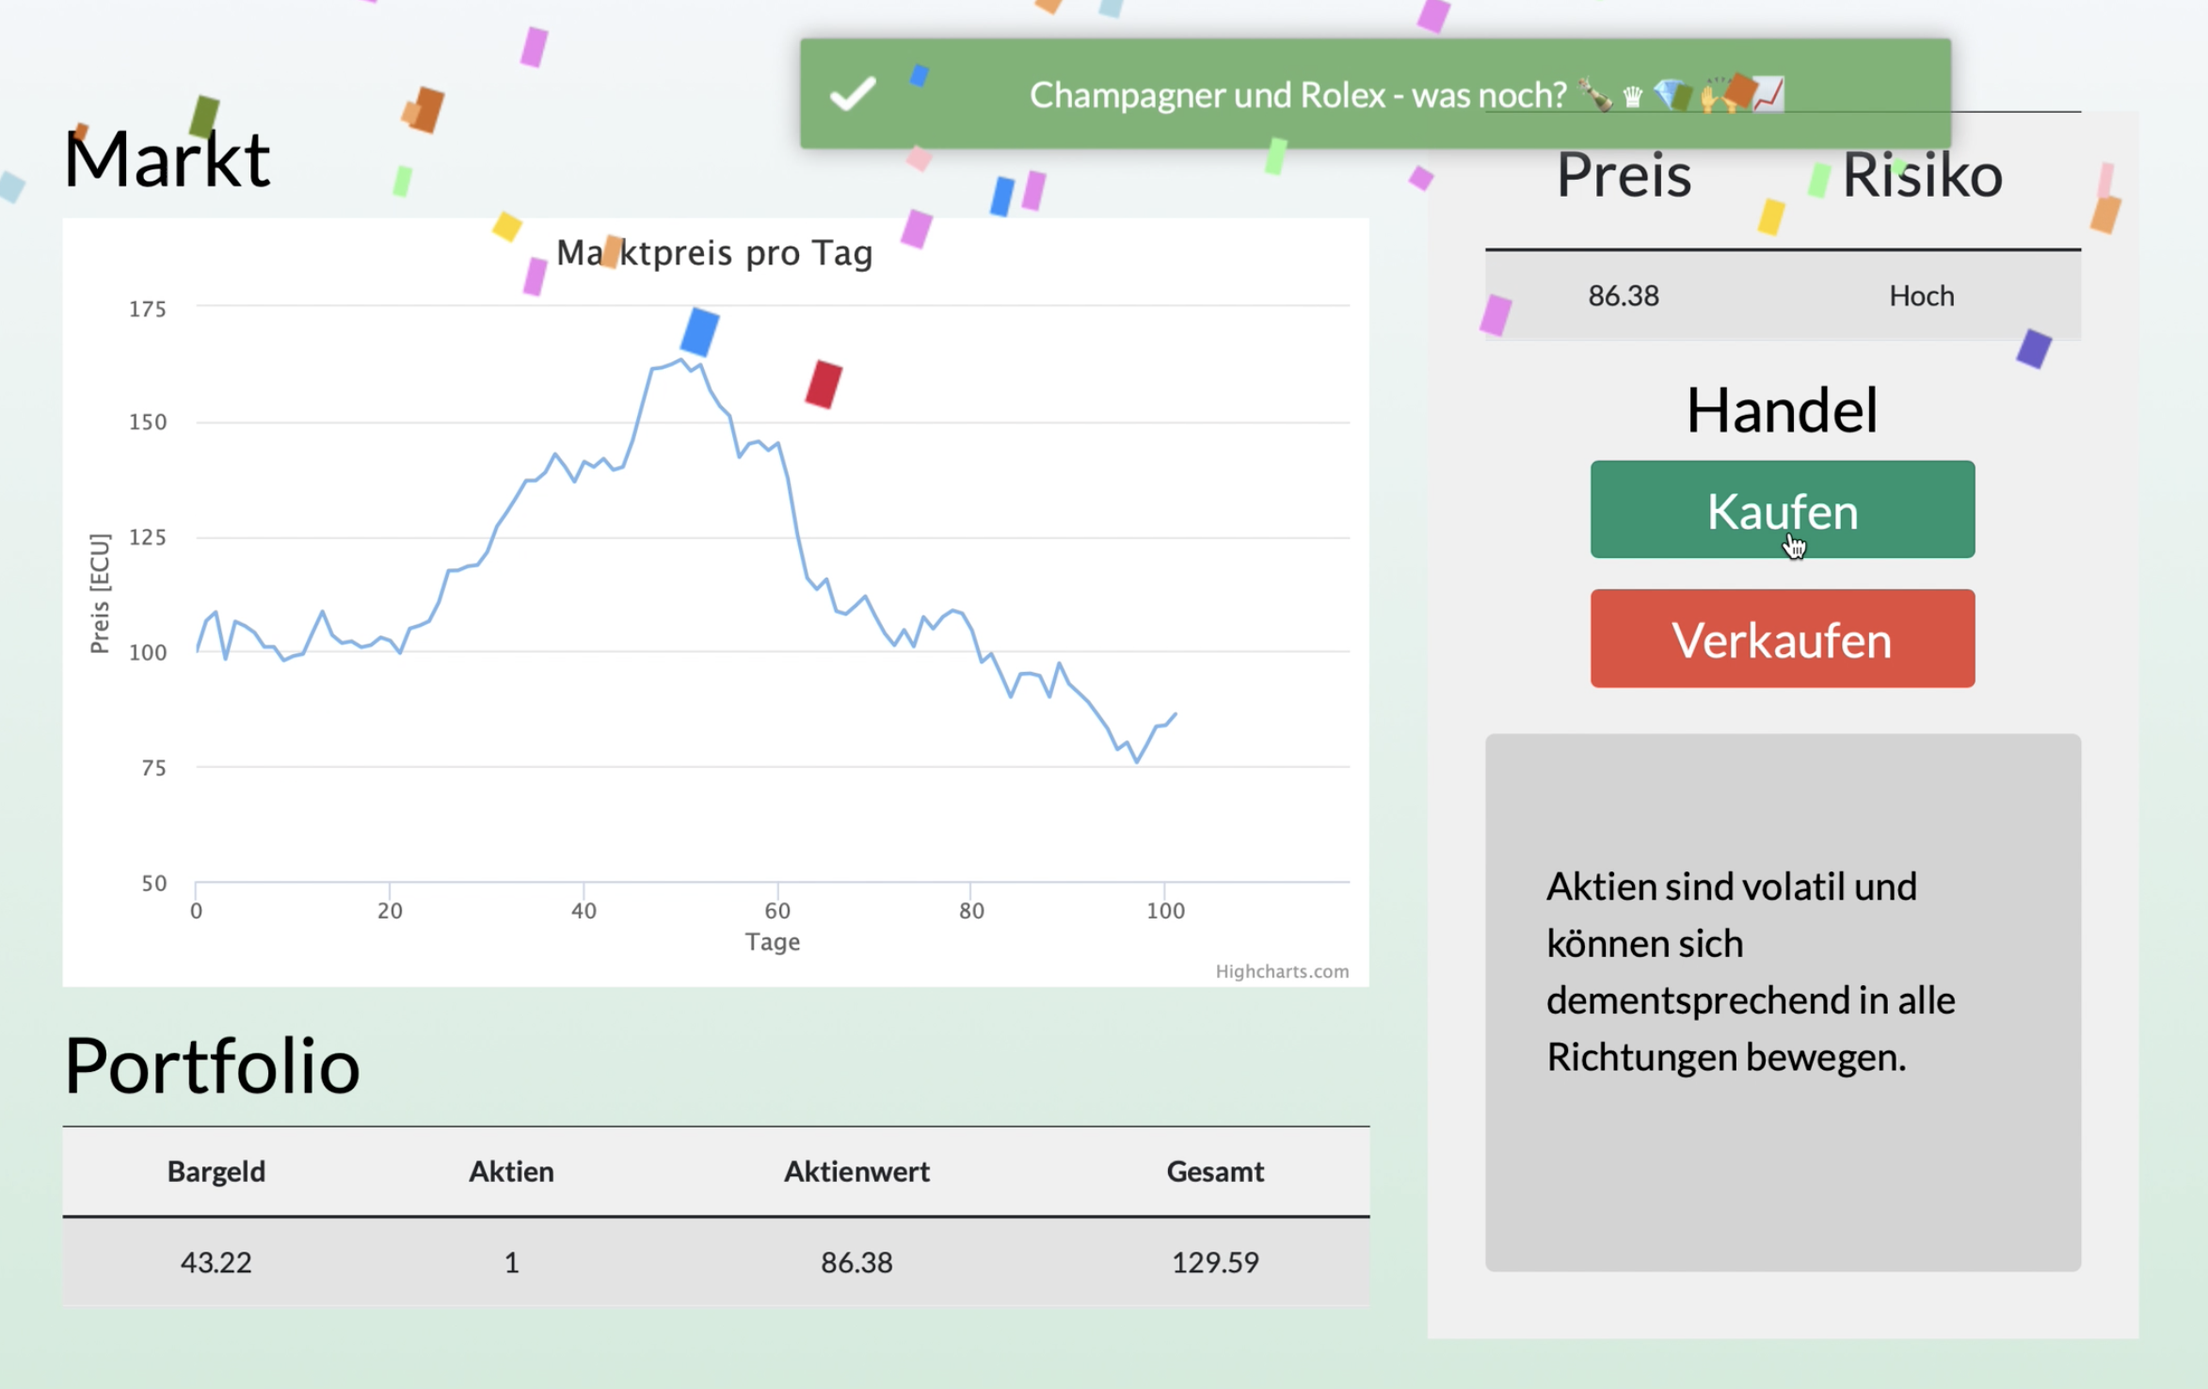
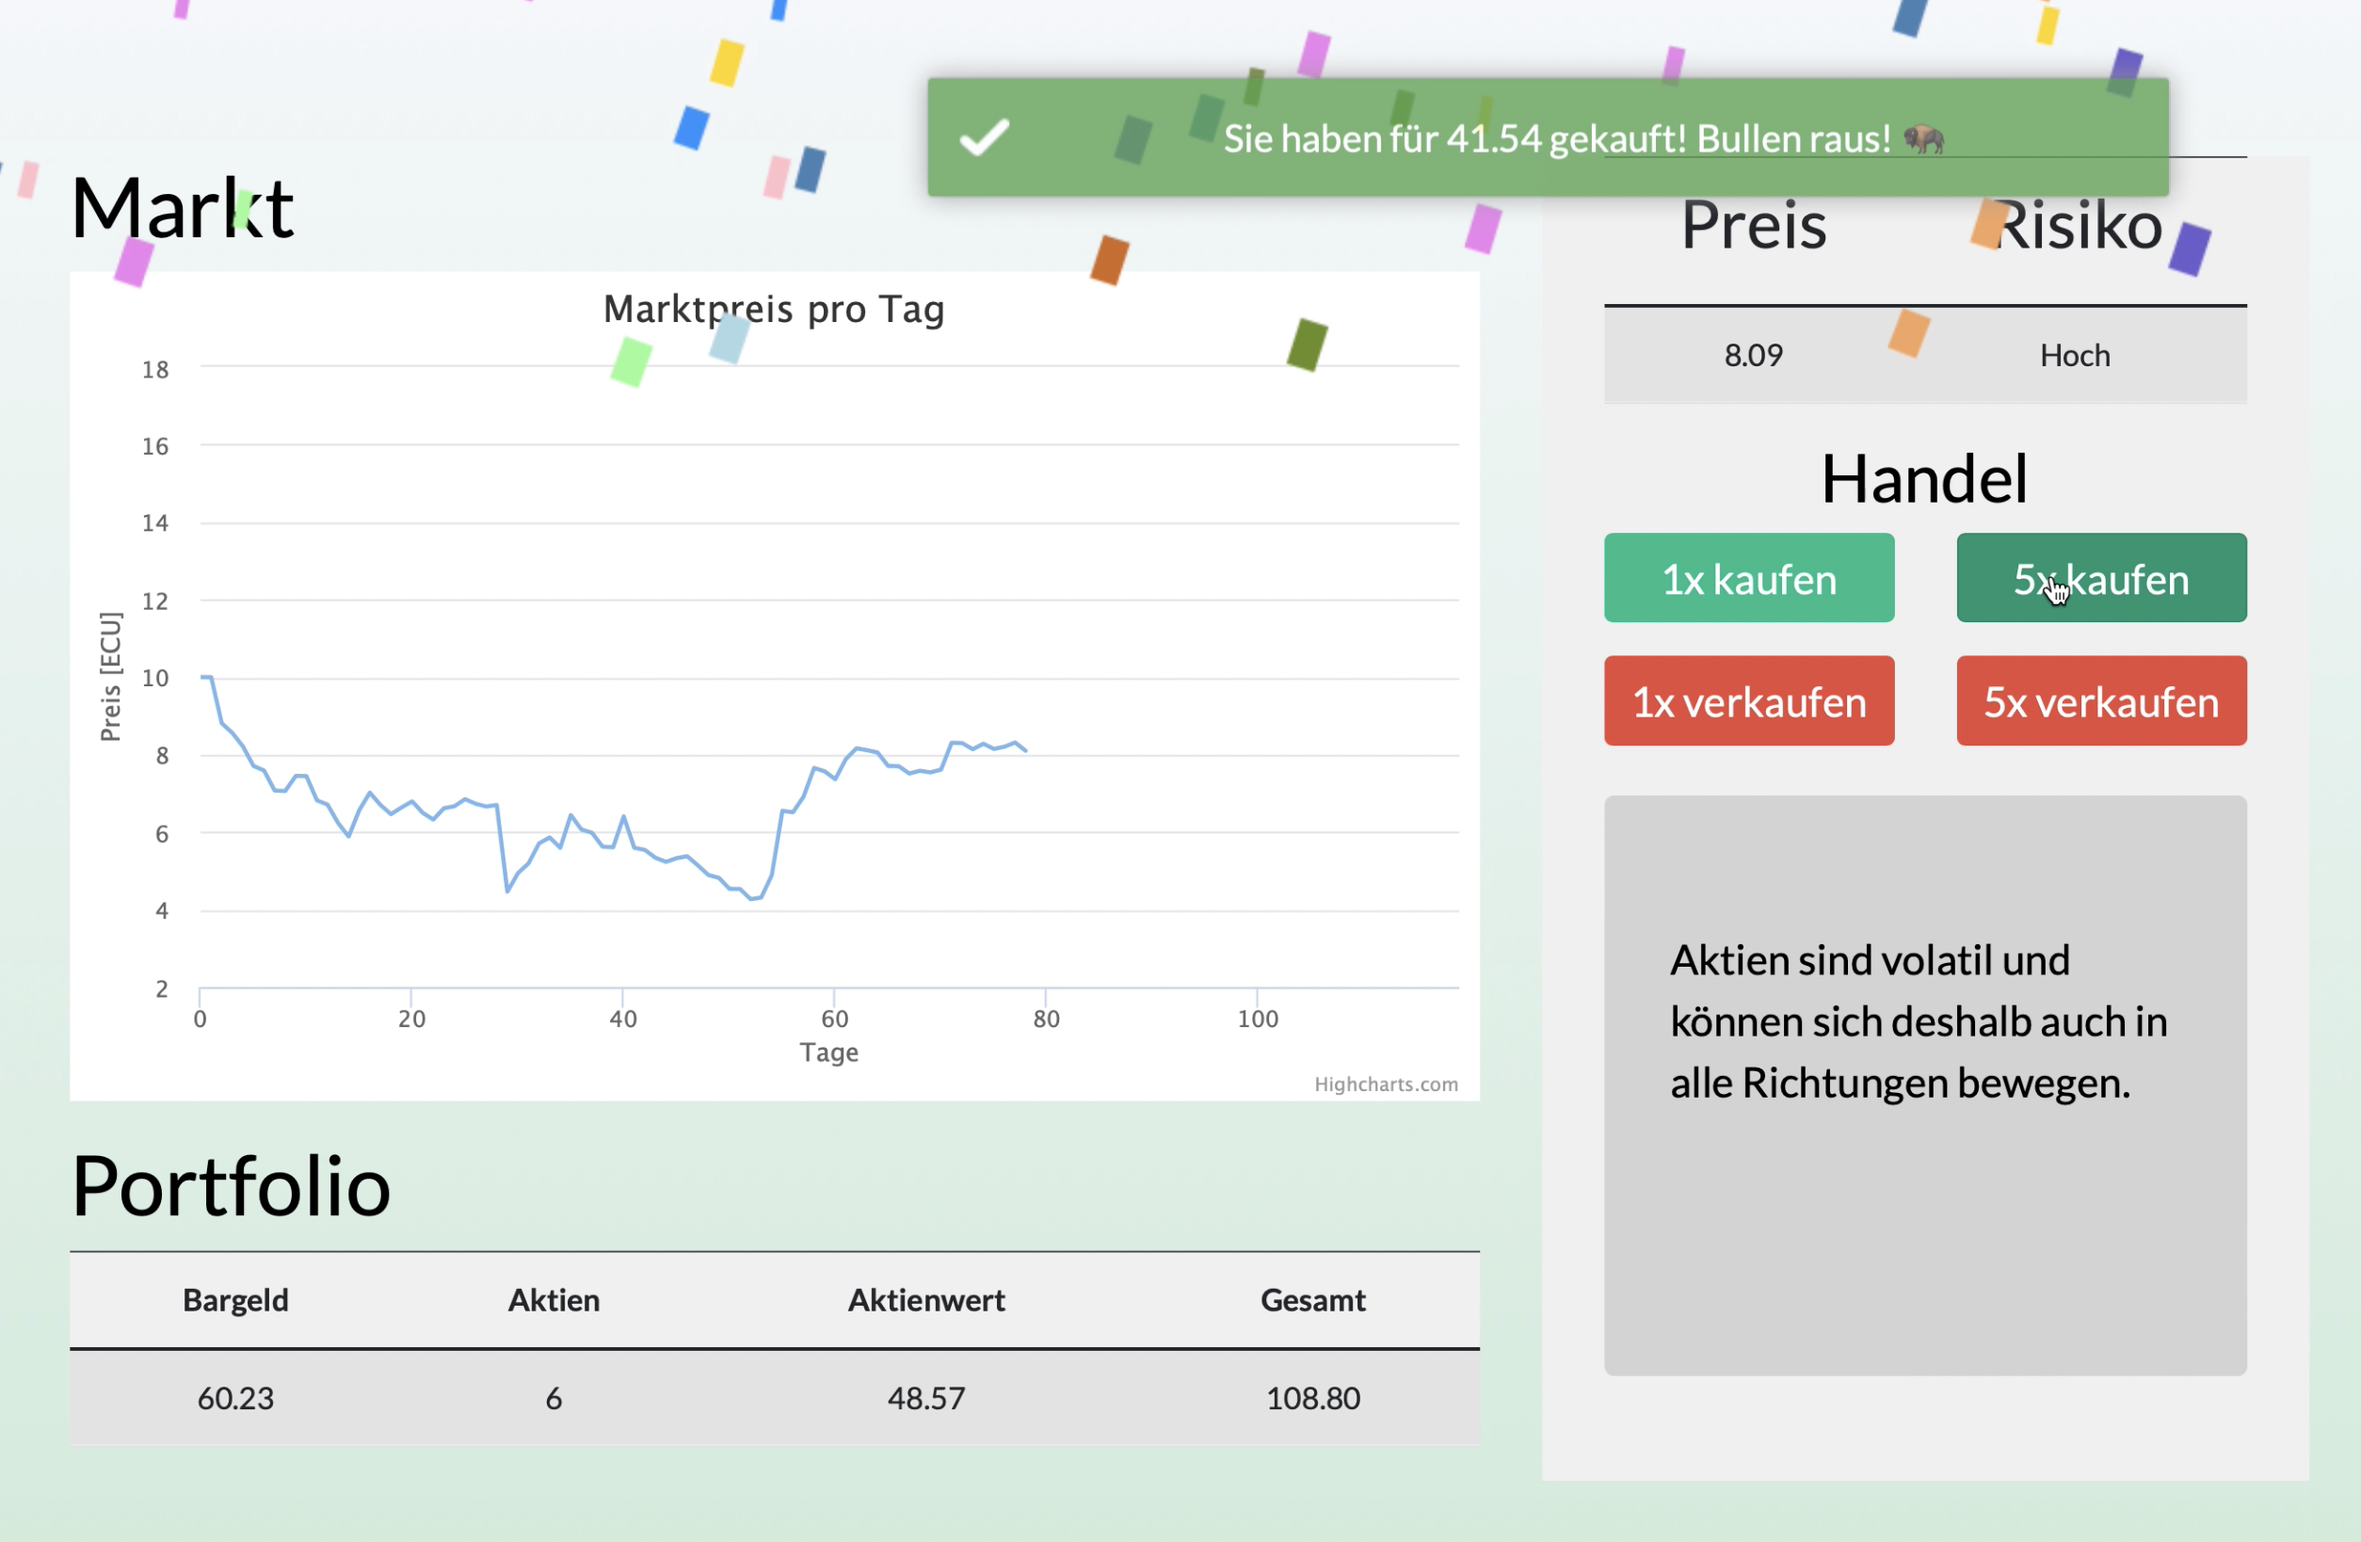
updated version

diff --git a/ZTS/templates/ZTS/TradingPage.html b/ZTS/templates/ZTS/TradingPage.html
@@ -72,25 +72,25 @@
                 <h3>Handel</h3>
                 <div class="row">
                     <div class="col-sm d-flex justify-content-center">
-                    <button onclick="buy_shares(this.value); startAndStopConfetti()" value="1" id="trade_btn_buy_s" type="button" class="btn btn-success btn-block" style="font-size: 20px; width: 140px;">1x kaufen</button>
+                    <button onclick="buy_shares(this.value);" value="1" id="trade_btn_buy_s" type="button" class="btn btn-success btn-block" style="font-size: 20px; width: 140px;">1x kaufen</button>
                     </div>
                     <div class="col-sm d-flex justify-content-center">
-                    <button onclick="buy_shares(this.value); startAndStopConfetti()" value="5" id="trade_btn_buy_l" type="button" class="btn btn-success btn-block" style="font-size: 20px; width: 140px;">5x kaufen</button>
+                    <button onclick="buy_shares(this.value);" value="5" id="trade_btn_buy_l" type="button" class="btn btn-success btn-block" style="font-size: 20px; width: 140px;">5x kaufen</button>
                     </div>
                 </div><p>
 
                 <div class="row">
                     <div class="col-sm d-flex justify-content-center">
-                    <button onclick="sell_shares(this.value); startAndStopConfetti()" value="1" id="trade_btn_sell_s" type="button" class="btn btn-danger btn-block" style="font-size: 20px; width: 140px;">1x verkaufen</button>
+                    <button onclick="sell_shares(this.value);" value="1" id="trade_btn_sell_s" type="button" class="btn btn-danger btn-block" style="font-size: 20px; width: 140px;">1x verkaufen</button>
                     </div>
                     <div class="col-sm d-flex justify-content-center">
-                    <button onclick="sell_shares(this.value); startAndStopConfetti()" value="5" id="trade_btn_sell_l" type="button" class="btn btn-danger btn-block" style="font-size: 20px; width: 140px;">5x verkaufen</button>
+                    <button onclick="sell_shares(this.value);" value="5" id="trade_btn_sell_l" type="button" class="btn btn-danger btn-block" style="font-size: 20px; width: 140px;">5x verkaufen</button>
                     </div>
                 </div>
             </div>
 
             <div class="container-fluid mt-4">
-                <div class="jumbotron left col-sm" style=background-color:rgb(211,211,211);height:280px id="trade_news"</div>
+                <div class="jumbotron left col-sm" style=background-color:rgb(211,211,211);height:280px id="trade_news"></div>
             </div>
         </div>
     </div>
@@ -103,6 +103,7 @@
 {% block scripts %}
 <!-- Write scripts in here! -->
 
+
 <!-- Load javascripts from Content Delivery Network -->
 
 <script src="https://cdnjs.cloudflare.com/ajax/libs/popper.js/1.16.0/umd/popper.min.js"></script>
@@ -112,7 +113,6 @@
 
 <script src="https://cdnjs.cloudflare.com/ajax/libs/toastr.js/latest/toastr.min.js"></script>
 
-
 <!-- Load custom javascripts from static files -->
 <script src="{% static "ZTS/chart.js" %}?v=Mar 19 08:30"></script>
 <script src="{% static "ZTS/trade_controller.js" %}?v=Apr 19 07:46"></script>
@@ -121,17 +121,21 @@
 
 {% block styles %}
 <link rel="stylesheet" href="https://maxcdn.bootstrapcdn.com/bootstrap/4.4.1/css/bootstrap.min.css">
-<link href="https://cdnjs.cloudflare.com/ajax/libs/toastr.js/latest/toastr.min.css" rel="stylesheet"/>
+
+
 <link href="https://www.cssscript.com/wp-includes/css/sticky.css" rel="stylesheet" type="text/css">
-<link rel="stylesheet" href="https://cdnjs.cloudflare.com/ajax/libs/bootswatch/4.1.3/darkly/bootstrap.min.css">
+
+<link rel="stylesheet" href="https://maxcdn.bootstrapcdn.com/bootstrap/4.4.1/css/bootstrap.min.css">
+
+<link href="https://cdnjs.cloudflare.com/ajax/libs/toastr.js/latest/toastr.min.css" rel="stylesheet" type="text/css">
 <!-- Add custom CSS rules to override default toastr styles -->
+
 <style>
 body {
     background-image: linear-gradient(to top, #b7e4c7, #f5f7fa);
     min-height: 100vh;
     color: black;
 }
-
 
 #confetti-canvas {
   position: fixed;

diff --git a/ZTSN/templates/ZTSN/TradingPage.html b/ZTSN/templates/ZTSN/TradingPage.html
@@ -9,7 +9,7 @@
 <!-- Write content in here -->
 
 <div class="container-fluid" >
-    <div class="row" >
+    <div class="row">
 
         <!-- left side -->
         <div class="col-lg-8">
@@ -72,30 +72,29 @@
                 <h3>Handel</h3>
                 <div class="row">
                     <div class="col-sm d-flex justify-content-center">
-                    <button onclick="buy_shares(this.value)" value="1" id="trade_btn_buy_s" type="button" class="btn btn-success btn-block" style="font-size: 20px; width: 140px;">1x kaufen</button>
+                    <button onclick="buy_shares(this.value);" value="1" id="trade_btn_buy_s" type="button" class="btn btn-success btn-block" style="font-size: 20px; width: 140px;">1x kaufen</button>
                     </div>
                     <div class="col-sm d-flex justify-content-center">
-                    <button onclick="buy_shares(this.value)" value="5" id="trade_btn_buy_l" type="button" class="btn btn-success btn-block" style="font-size: 20px; width: 140px;">5x kaufen</button>
+                    <button onclick="buy_shares(this.value);" value="5" id="trade_btn_buy_l" type="button" class="btn btn-success btn-block" style="font-size: 20px; width: 140px;">5x kaufen</button>
                     </div>
                 </div><p>
 
                 <div class="row">
                     <div class="col-sm d-flex justify-content-center">
-                    <button onclick="sell_shares(this.value)" value="1" id="trade_btn_sell_s" type="button" class="btn btn-danger btn-block" style="font-size: 20px; width: 140px;">1x verkaufen</button>
+                    <button onclick="sell_shares(this.value);" value="1" id="trade_btn_sell_s" type="button" class="btn btn-danger btn-block" style="font-size: 20px; width: 140px;">1x verkaufen</button>
                     </div>
                     <div class="col-sm d-flex justify-content-center">
-                    <button onclick="sell_shares(this.value)" value="5" id="trade_btn_sell_l" type="button" class="btn btn-danger btn-block" style="font-size: 20px; width: 140px;">5x verkaufen</button>
+                    <button onclick="sell_shares(this.value);" value="5" id="trade_btn_sell_l" type="button" class="btn btn-danger btn-block" style="font-size: 20px; width: 140px;">5x verkaufen</button>
                     </div>
                 </div>
             </div>
 
             <div class="container-fluid mt-4">
-                <div class="jumbotron left col-sm" style=background-color:rgb(211,211,211);height:280px id="trade_news"</div>
+                <div class="jumbotron left col-sm" style=background-color:rgb(211,211,211);height:280px id="trade_news"></div>
             </div>
         </div>
     </div>
 </div>
-
 {% next_button %}
 
 {% endblock %}
@@ -104,9 +103,7 @@
 <!-- Write scripts in here! -->
 
 <!-- Load javascripts from Content Delivery Network -->
-<meta charset="utf-8">
-<meta name="viewport" content="width=device-width, initial-scale=1">
->
+
 <script src="https://cdnjs.cloudflare.com/ajax/libs/popper.js/1.16.0/umd/popper.min.js"></script>
 <script src="https://maxcdn.bootstrapcdn.com/bootstrap/4.4.1/js/bootstrap.min.js"></script>
 
@@ -121,8 +118,10 @@
 {% endblock %}
 
 {% block styles %}
-<link rel="stylesheet" href="https://maxcdn.bootstrapcdn.com/bootstrap/4.4.1/css/bootstrap.min.css"
-<link href="https://cdnjs.cloudflare.com/ajax/libs/toastr.js/latest/toastr.min.css" rel="stylesheet"/>
+<link rel="stylesheet" href="https://maxcdn.bootstrapcdn.com/bootstrap/4.4.1/css/bootstrap.min.css">
+
+<link href="https://cdnjs.cloudflare.com/ajax/libs/toastr.js/latest/toastr.min.css" rel="stylesheet">
+
 <!-- Add custom CSS rules to override default toastr styles -->
 <style>
 .toast {

diff --git a/ZTS/templates/ZTS/InstructionPage2.html b/ZTS/templates/ZTS/InstructionPage2.html
@@ -19,12 +19,12 @@
         <b><em>2. Portfolio:</em></b>
         <br>
         Hier sehen Sie alle zur gegebenen Zeit und in Ihrem Besitz befindenden Vermögenswerte: Bargeld, Aktie (Anteile an
-        dem riskanten Vermögenswert, Aktienwert (Wert der gehaltenen Anteile) und Gesamt (Summe aus Bargeld und dem Aktienwert).
+        dem riskanten Vermögenswert), Aktienwert (Wert der gehaltenen Anteile) und Gesamt (Summe aus Bargeld und dem Aktienwert).
         <br>
         <br>
         <b><em>3. Rechte Box:</em></b>
         <br>
-        Hier sehen Sie den aktuellen Marktpreis der Aktie, die Schaltflächen für den Kauf und Verkauf von Aktien sowie
+        Hier sehen Sie den aktuellen Marktpreis der Aktie, die über die gesamte Periode konstante Risikoklasse, die Schaltflächen für den Kauf und Verkauf von Aktien sowie
         Informationen bezüglich Investitionen im Allgemeinen oder bezogen auf die Aktie.
         <br>
         <br>

diff --git a/ZTSN/templates/ZTSN/InstructionPage2.html b/ZTSN/templates/ZTSN/InstructionPage2.html
@@ -20,12 +20,12 @@
         <b><em>2. Portfolio:</em></b>
         <br>
         Hier sehen Sie alle zur gegebenen Zeit und in Ihrem Besitz befindenden Vermögenswerte: Bargeld, Aktie (Anteile an
-        dem riskanten Vermögenswert, Aktienwert (Wert der gehaltenen Anteile) und Gesamt (Summe aus Bargeld und dem Aktienwert).
+        dem riskanten Vermögenswert), Aktienwert (Wert der gehaltenen Anteile) und Gesamt (Summe aus Bargeld und dem Aktienwert).
         <br>
         <br>
         <b><em>3. Rechte Box:</em></b>
         <br>
-        Hier sehen Sie den aktuellen Marktpreis der Aktie, die Schaltflächen für den Kauf und Verkauf von Aktien sowie
+        Hier sehen Sie den aktuellen Marktpreis der Aktie, die über die gesamte Periode konstante Risikoklasse, die Schaltflächen für den Kauf und Verkauf von Aktien sowie
         Informationen bezüglich Investitionen im Allgemeinen oder bezogen auf die Aktie.
         <br>
         <br>

diff --git a/ZTS/templates/ZTS/InstructionPage.html b/ZTS/templates/ZTS/InstructionPage.html
@@ -45,7 +45,7 @@
         <br>
         Sie erhalten eine leistungsabhängige Auszahlung aus einer zufällig ausgewählten Runde der beiden Testrunden. 
         Die Auszahlung entspricht dem Gesamtwert des Portfolios am Ende der Runde (nach Rückzahlung der 80 ECUs).
-        Verluste werden nicht von Ihrer fixen Vergütung abgezogen werden.
+        Verluste werden nicht von Ihrer fixen Vergütung abgezogen.
 
         <br>
         <br>

diff --git a/ZTSN/templates/ZTSN/InstructionPage.html b/ZTSN/templates/ZTSN/InstructionPage.html
@@ -43,7 +43,7 @@
         <br>
         Sie erhalten eine leistungsabhängige Auszahlung aus einer zufällig ausgewählten Runde der beiden Testrunden. 
         Die Auszahlung entspricht dem Gesamtwert des Portfolios am Ende der Runde (nach Rückzahlung der 80 ECUs).
-        Verluste werden nicht von Ihrer fixen Vergütung abgezogen werden.
+        Verluste werden nicht von Ihrer fixen Vergütung abgezogen.
 
         <br>
         <br>

diff --git a/overconfidence_measurement/q_6.html b/overconfidence_measurement/q_6.html
@@ -3,7 +3,7 @@
 {{ endblock }}
 {{ block content }}
 
-<p>In welechem Jahr wurde J.S. Bach geboren?<p/>
+<p>In welchem Jahr wurde J.S. Bach geboren?<p/>
 
     {{ formfields }}
     {{ next_button }}

diff --git a/banks_five_assets/__init__.py b/banks_five_assets/__init__.py
@@ -243,13 +243,13 @@ class Decision(Page):
             e_t * player.asset_e
         ]) 
         player.tails = tails
-        
+
         if player.participant.vars['exp_to_pay'] == 2 and player.participant.vars['exp2_task'] == 5 and round_num == player.participant.vars['banks5_round_to_pay']:
-            pay_for = random.choice(['heads', 'tails'])
+            pay_for = random.choice(['Kopf', 'Zahl'])
             player.paid_for = pay_for
             player.participant.vars["banks_coinflip"] = pay_for
             player.participant.vars["banks_round"] = round_num
-            player.payoff = player.heads if pay_for == 'heads' else player.tails
+            player.payoff = player.heads if pay_for == 'Kopf' else player.tails
             player.participant.vars["exp2_pay_ecu"] = player.payoff
 
 

diff --git a/banks_two_assets/__init__.py b/banks_two_assets/__init__.py
@@ -177,11 +177,11 @@ class Decision(Page):
         player.tails = tails
 
         if player.participant.vars['exp_to_pay'] == 2 and player.participant.vars['exp2_task'] == 2 and round_num == player.participant.vars['banks2_round_to_pay']:
-            pay_for = random.choice(['heads', 'tails'])
+            pay_for = random.choice(['Kopf', 'Zahl'])
             player.paid_for = pay_for
             player.participant.vars["banks_coinflip"] = pay_for
             player.participant.vars["banks_round"] = round_num
-            player.payoff = player.heads if pay_for == 'heads' else player.tails
+            player.payoff = player.heads if pay_for == 'Kopf' else player.tails
             player.participant.vars["exp2_pay_ecu"] = player.payoff
 
 

diff --git a/settings.py b/settings.py
@@ -31,7 +31,7 @@ SESSION_CONFIGS = [
         trading_button_values='[1, 1, 1]',
         random_round_payoff=True,
         training_round=True,
-        graph_buffer=5,
+        graph_buffer=1,
     ),
     dict(
         name='combined_experiment_gamified',
@@ -62,7 +62,7 @@ SESSION_CONFIGS = [
         trading_button_values='[1, 1, 1]',
         random_round_payoff=True,
         training_round=True,
-        graph_buffer=5,
+        graph_buffer=1,
     )
 ]
 
